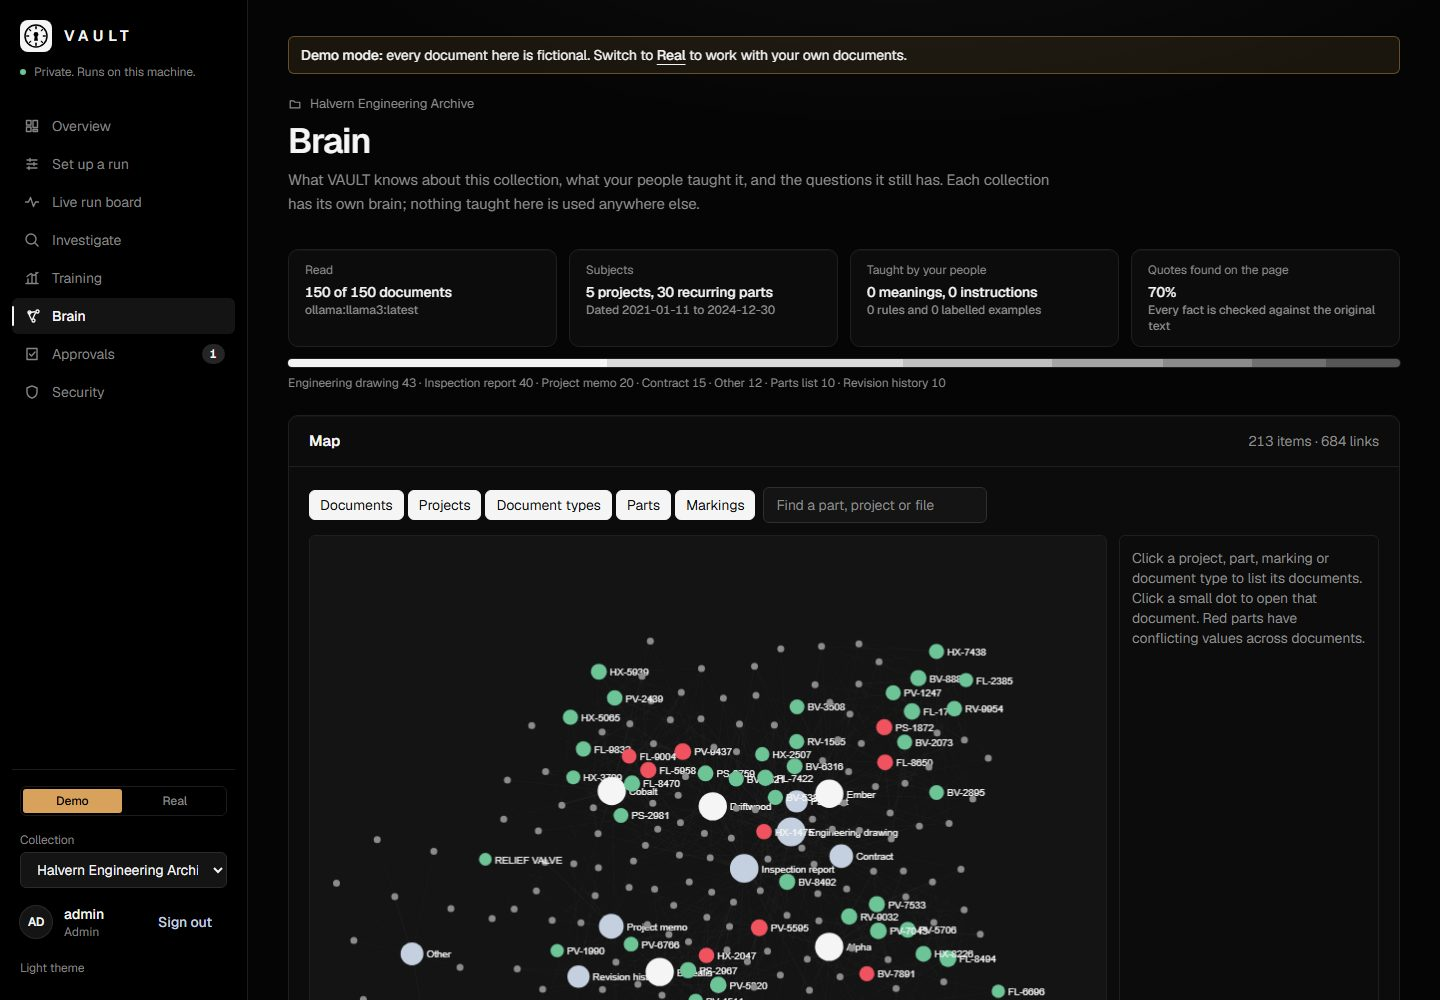
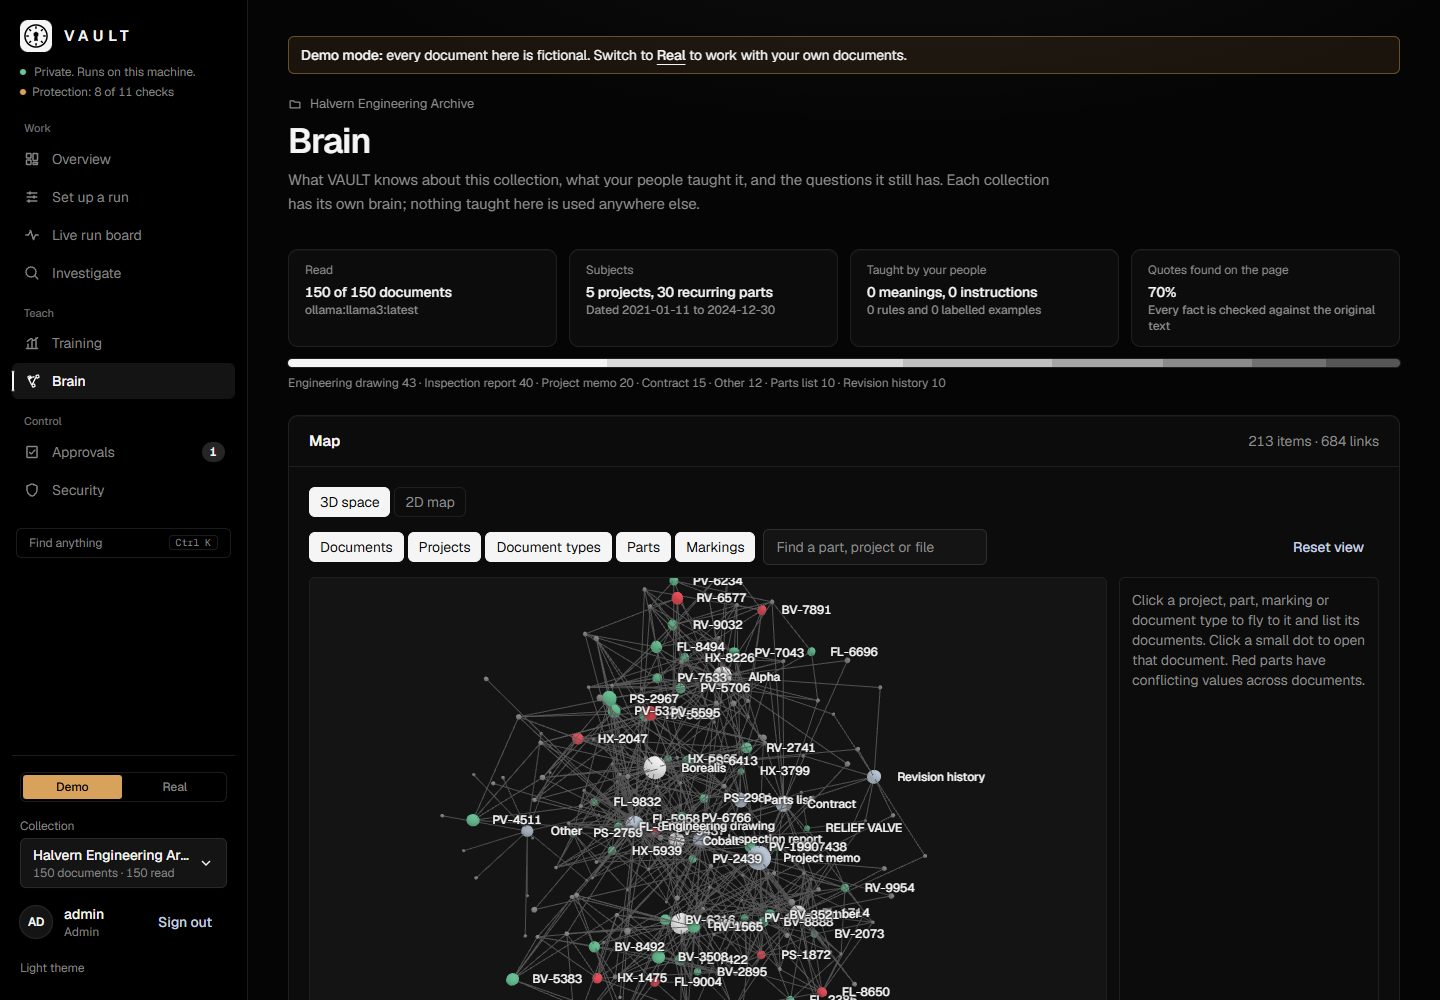
README: new screenshots of the 3D brain and the security checklist [skip ci]

diff --git a/README.md b/README.md
@@ -66,8 +66,8 @@ All data below is fictional, made by the project's own synthetic dataset generat
   </tr>
   <tr>
     <td width="50%" valign="top">
-      <picture><source media="(prefers-color-scheme: dark)" srcset="docs/screenshots/security-dark.jpg"><img src="docs/screenshots/security-light.jpg" alt="Security: remote inference switched off, screening summary and audit log with denied requests"></picture>
-      <br><sub><b>Security.</b> Remote models are off by default. Restricted files stay on local lanes, and denied requests are logged.</sub>
+      <picture><source media="(prefers-color-scheme: dark)" srcset="docs/screenshots/security-dark.jpg"><img src="docs/screenshots/security-light.jpg" alt="Security: a live checklist of protections, 8 of 11 passing in demo mode, with how to fix each one"></picture>
+      <br><sub><b>Security.</b> A live checklist of VAULT's protections, each with how to fix it. Files with active content are held, and passkeys (face, fingerprint or a security key) can be required.</sub>
     </td>
     <td width="50%" valign="top">
       <picture><source media="(prefers-color-scheme: dark)" srcset="docs/screenshots/setup-dark.jpg"><img src="docs/screenshots/setup-light.jpg" alt="Set up a run: teach by example, check this machine, choose model lanes"></picture>
@@ -97,7 +97,7 @@ All data below is fictional, made by the project's own synthetic dataset generat
   <tr>
     <td width="50%" valign="top">
       <picture><source media="(prefers-color-scheme: dark)" srcset="docs/screenshots/brain-dark.jpg"><img src="docs/screenshots/brain-light.jpg" alt="Brain: what VAULT knows about the collection, and a map of documents linked to projects, parts and markings, with conflicting parts in red"></picture>
-      <br><sub><b>Brain.</b> What VAULT knows, what people taught it, and the questions it still has. The map links documents to their projects, parts and markings; red parts disagree across documents.</sub>
+      <br><sub><b>Brain.</b> What VAULT knows, what people taught it, and the questions it still has. Fly through the 3D map of documents, projects, parts and markings; red parts disagree across documents.</sub>
     </td>
     <td width="50%" valign="top">
       <picture><source media="(prefers-color-scheme: dark)" srcset="docs/screenshots/models-dark.jpg"><img src="docs/screenshots/models-light.jpg" alt="Meta models for this computer: which models fit on the graphics card, which run partly on the processor, and one-click installs"></picture>
